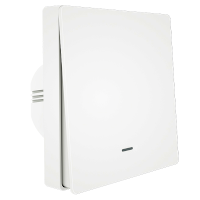
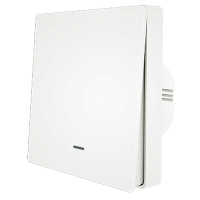
Tuya switch 2 and 3 gang

diff --git a/lib/devstates.js b/lib/devstates.js
@@ -335,6 +335,20 @@ const states = {
         setattr: 'state',
         epname: 'right',
     },
+    center_state: {
+        id: 'center_state',
+        prop: 'state_center',
+        name: 'Center switch state',
+        icon: undefined,
+        role: 'switch',
+        write: true,
+        read: true,
+        type: 'boolean',
+        getter: payload => (payload.state_center === 'ON'),
+        setter: (value) => (value) ? 'ON' : 'OFF',
+        setattr: 'state',
+        epname: 'center',
+    },
     left_button: {
         id: 'left_button',
         prop: 'button_left',
@@ -4267,6 +4281,18 @@ const devices = [{
         models: ['TS0011'],
         icon: 'img/tuya_switch_1.png',
         states: [states.state],
+    },
+    {
+        vendor: 'Tuya',
+        models: ['TS0012'],
+        icon: 'img/tuya_switch_2.png',
+        states: [states.left_state, states.right_state],
+    },
+    {
+        vendor: 'Tuya',
+        models: ['TS0013'],
+        icon: 'img/tuya_switch_3.png',
+        states: [states.left_state, states.right_state, states.center_state],
     },
     // Zemismart
     {
